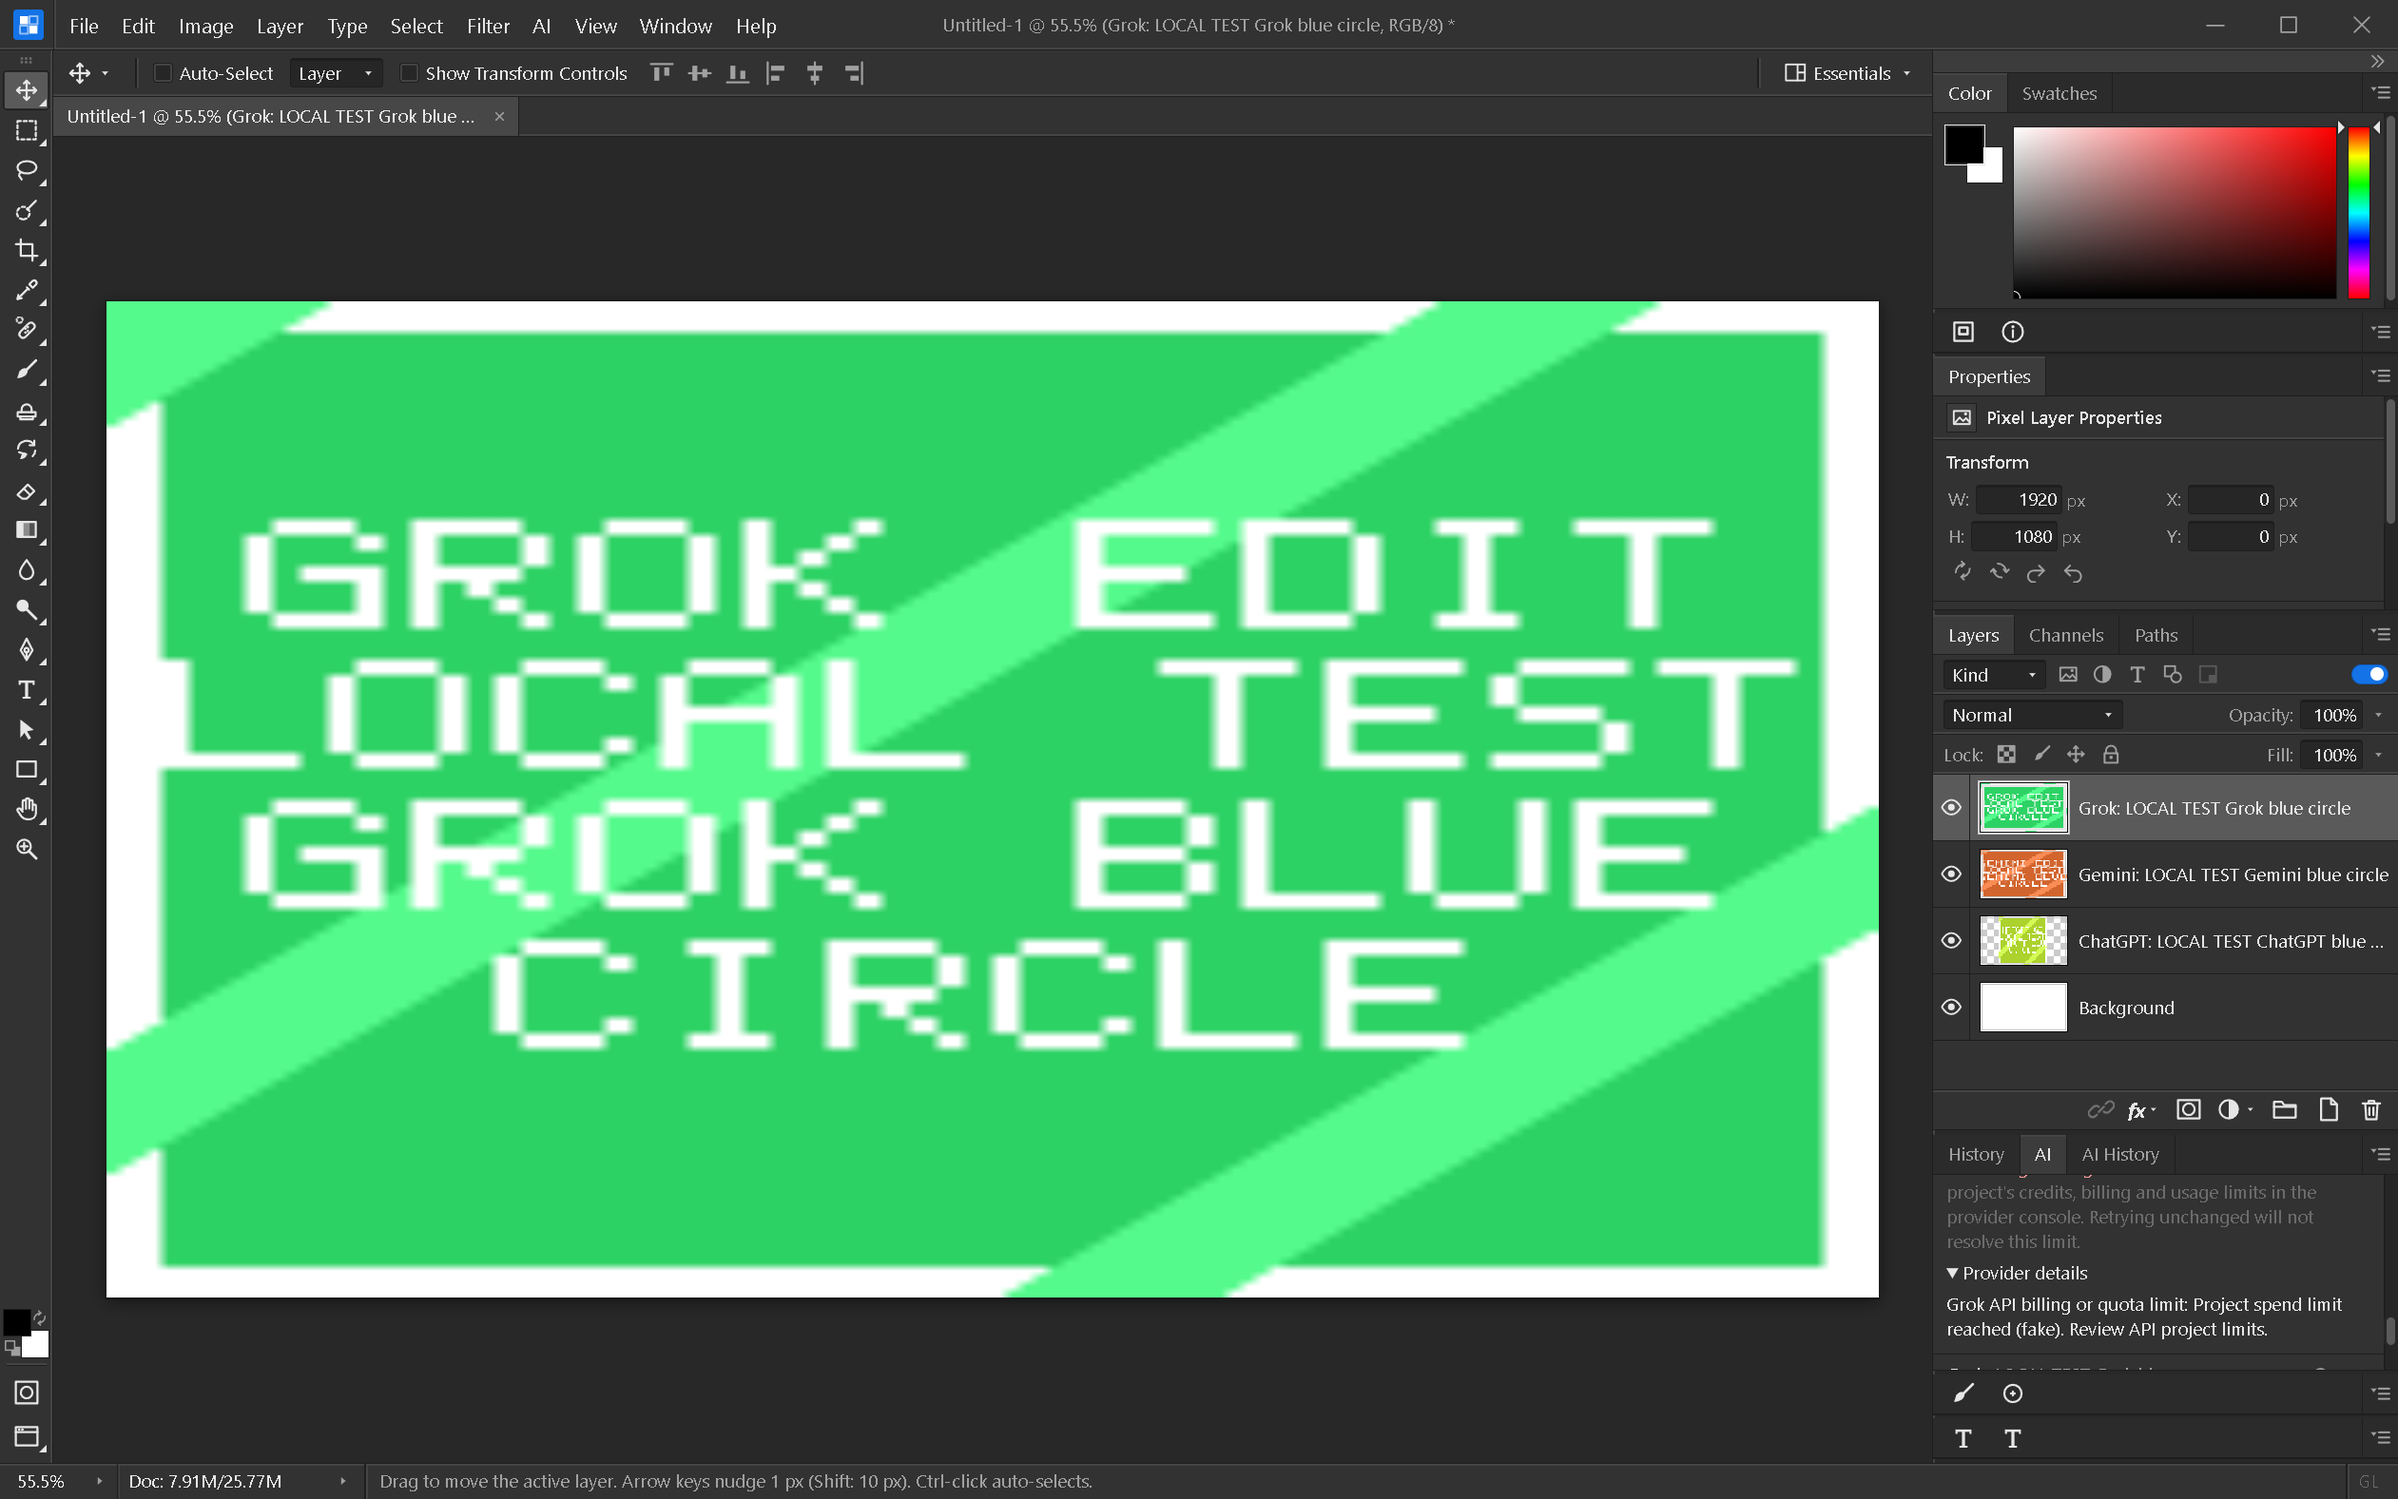
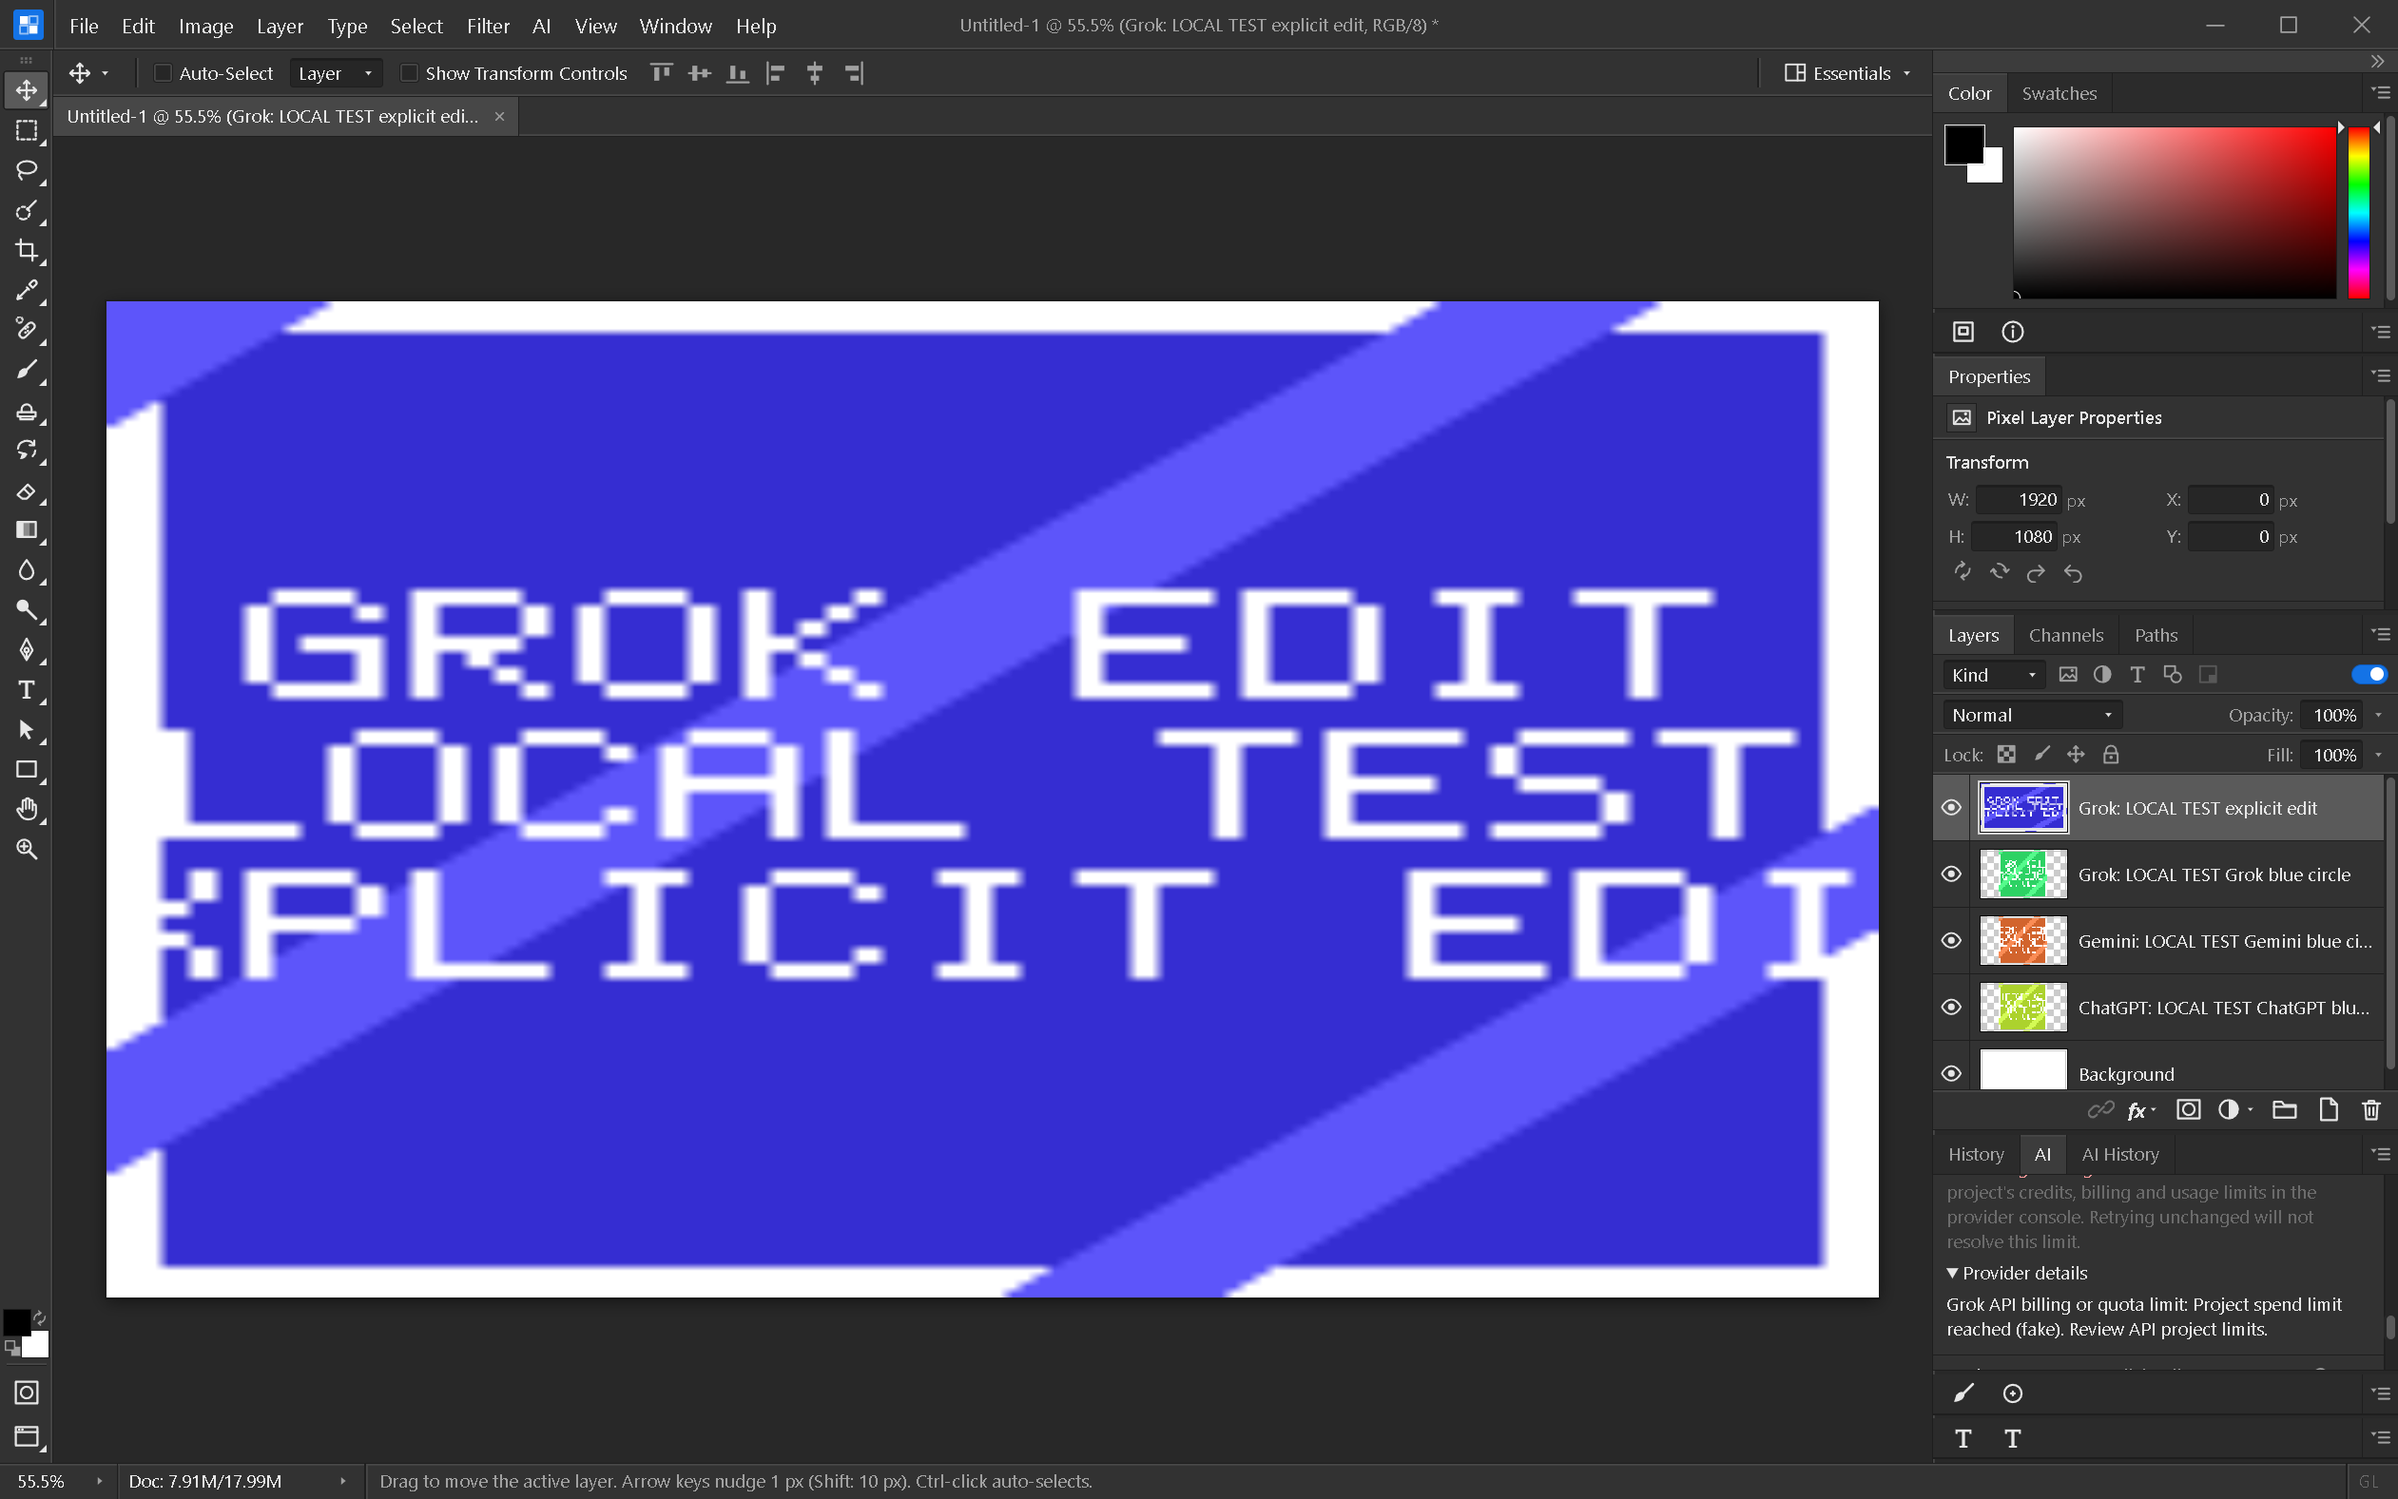
Keep the chosen AI mode across runs and provider changes

diff --git a/app/src/lib/ui/panels/AiPanel.svelte b/app/src/lib/ui/panels/AiPanel.svelte
@@ -270,7 +270,6 @@
       feather: aiUi.feather,
     };
     aiUi.lastRun = req;
-    aiUi.forcedMode = undefined;
     busy = true;
     try {
       const r = await runAi(req);
@@ -348,10 +347,15 @@
     </div>
     <div class="frow">
       <span class="flbl">Mode:</span>
+      <select class="input" aria-label="AI mode" value={aiUi.forcedMode ?? "auto"} onchange={(e) => { aiUi.forcedMode = e.currentTarget.value === "auto" ? undefined : e.currentTarget.value as AiMode; aiUi.model = ""; }}>
+        <option value="auto">Auto</option>
+        <option value="generate">Generate new image</option>
+        <option value="instruct">Edit whole image</option>
+        <option value="mask">Edit selection</option>
+      </select>
+    </div>
+    <div class="frow">
       <span class="mode" title={modeTooltip(resolution.reason, resolution.emulated)}>{modeLabel}{resolution.emulated ? " (emulated)" : ""}</span>
-      {#if aiUi.forcedMode}
-        <button type="button" class="textbtn" title="Pick the mode from the selection again" onclick={() => (aiUi.forcedMode = undefined)}>Auto</button>
-      {/if}
     </div>
     <div class="flow" title="Every result lands on a new layer, so providers can be chained.">{flow}</div>
   </div>

diff --git a/docs/oauth-setup.md b/docs/oauth-setup.md
@@ -5,6 +5,11 @@ Open **Edit → AI Providers** and choose a provider and authentication method.
 To make an image, use **AI → Generate with AI…**, enter a prompt in the AI panel,
 choose the provider, then click **Run**. The command now reveals the panel and opens
 the prompt section even when History was selected or the dock was collapsed.
+The **Mode** picker lets you choose Generate, whole-image edit, selection edit, or
+Auto. An explicit choice stays selected after success or failure and when switching
+providers; Run no longer silently resets Generate to an edit. Auto uses the current
+document and selection. The mode description below the picker shows the resolved
+operation, including when an edit falls back because no editable image is available.
 The connection test checks authentication only; it does not generate an image or
 prove that the account has image-model access, billing or sufficient quota.
 The panel-reveal fix passes 99 AI tests and a rebuilt Windows UI check: both OpenAI
@@ -54,7 +59,12 @@ An isolated native app using a loopback fixture server added an OpenAI-generated
 image layer, then Gemini and Grok edited-image layers. A simulated project spending
 limit produced an actionable error, no extra layer, and no automatic retry. Failed
 jobs now offer **Provider details** so the returned message can be read and copied.
-These fixture results verify application plumbing, not live model access or billing.
+After the mode-picker fix, a second native check generated through all three adapters
+without attaching the document composite, switched explicitly to a Grok edit with an
+image input, and preserved Generate after a simulated quota failure. All four
+successful fixture responses added layers. The 100 frontend AI tests and Svelte
+check passed; the Windows native build succeeded. These fixture results verify
+application plumbing, not live model access or billing.
 
 ![Local fixture generation and quota diagnostics](screenshots/ai-local-pipeline.png)
 
